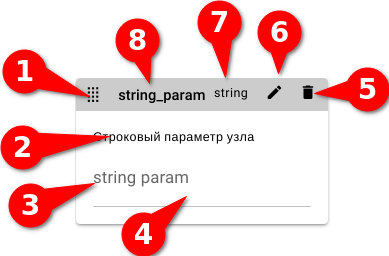
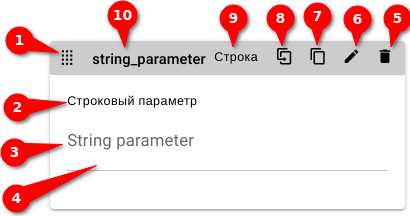
Update node parameters and spec info

diff --git a/src/desc/node_params.md b/src/desc/node_params.md
@@ -28,7 +28,7 @@
 
 - Плитки параметров
 - Кнопка "СОХРАНИТЬ" - сохранить значение параметра для этого слоя данных
-- Кнопка "РЕДАКТИРОВАТЬ" - перейти в [управления параметрами](#управление-параметрами)
+- Кнопка "РЕДАКТИРОВАТЬ" - перейти в [управление параметрами](#управление-параметрами)
 
 Общий вид плитки параметра:
 
@@ -36,7 +36,7 @@
 
 1. Описание
 2. Метка
-3. Редактирумое поле значения в этом слое данных
+3. Редактирумое поле значения в этом [слое данных][1]
 
 Вид плитки также определяется типом параметра:
 
@@ -48,6 +48,12 @@
 ![Edit params](/images/common/node_panel_params_edit.png)
 
 Структура:
+
+- Панель инструментов
+
+  - <span class="iconify-inline" data-icon="mdi:content-duplicate"></span>Копировать все параметры в входную спецификацию узла
+  - <span class="iconify-inline" data-icon="mdi:content-copy"></span>Копировать все параметры
+  - <span class="iconify-inline" data-icon="mdi:content-paste"></span>Вставить параметры
 
 - Плитки параметров
 - Кнопка "СОХРАНИТЬ" - сохранить значение параметра по умолчанию
@@ -64,8 +70,10 @@
 4. Редактирумое поле значения по умолчанию
 5. <span class="iconify-inline" data-icon="mdi:delete"></span>Удалить параметр
 6. <span class="iconify-inline" data-icon="mdi:edit"></span>[Редактировать](#создание-редактирование-параметра) параметр
-7. Тип
-8. Имя
+7. <span class="iconify-inline" data-icon="mdi:content-copy"></span>Копировать параметр
+8. <span class="iconify-inline" data-icon="mdi:content-duplicate"></span>Копировать параметр в входную спецификацию узла
+9. Тип
+10. Имя
 
 ## Создание/редактирование параметра
 
@@ -112,3 +120,5 @@
 - Суффикс - для отображения суффикса после значения, например, для отображения единиц измерения
 - Минимальное значение
 - Максимальное значение
+
+[1]: /docs/desc/project.md#слои-данных

diff --git a/src/desc/nodes.md b/src/desc/nodes.md
@@ -128,6 +128,10 @@
 
 ![Node desc](/images/common/node_panel_spec.png)
 
+::: tip <span class="iconify" data-icon="mdi:information" style="color: #42b983; font-size: 24px;"></span>
+Существует возможность [копирования параметров узла][2] в входную спецификацию узла.
+:::
+
 ### Параметры
 
 <span class="iconify-inline" data-icon="mdi:tune"></span> **Параметры узла** (Parameters) - управляющие параметры выполнения узла, передаваемые исполнительной программе (скрипту) узла.
@@ -431,3 +435,4 @@ Cтруктура:
   - <span class="iconify-inline" data-icon="mdi:location-enter"></span> Переход внутрь группы
 
 [1]: ./project.md#слои-данных
+[2]: /docs/desc/node_params.md#управление-параметрами
